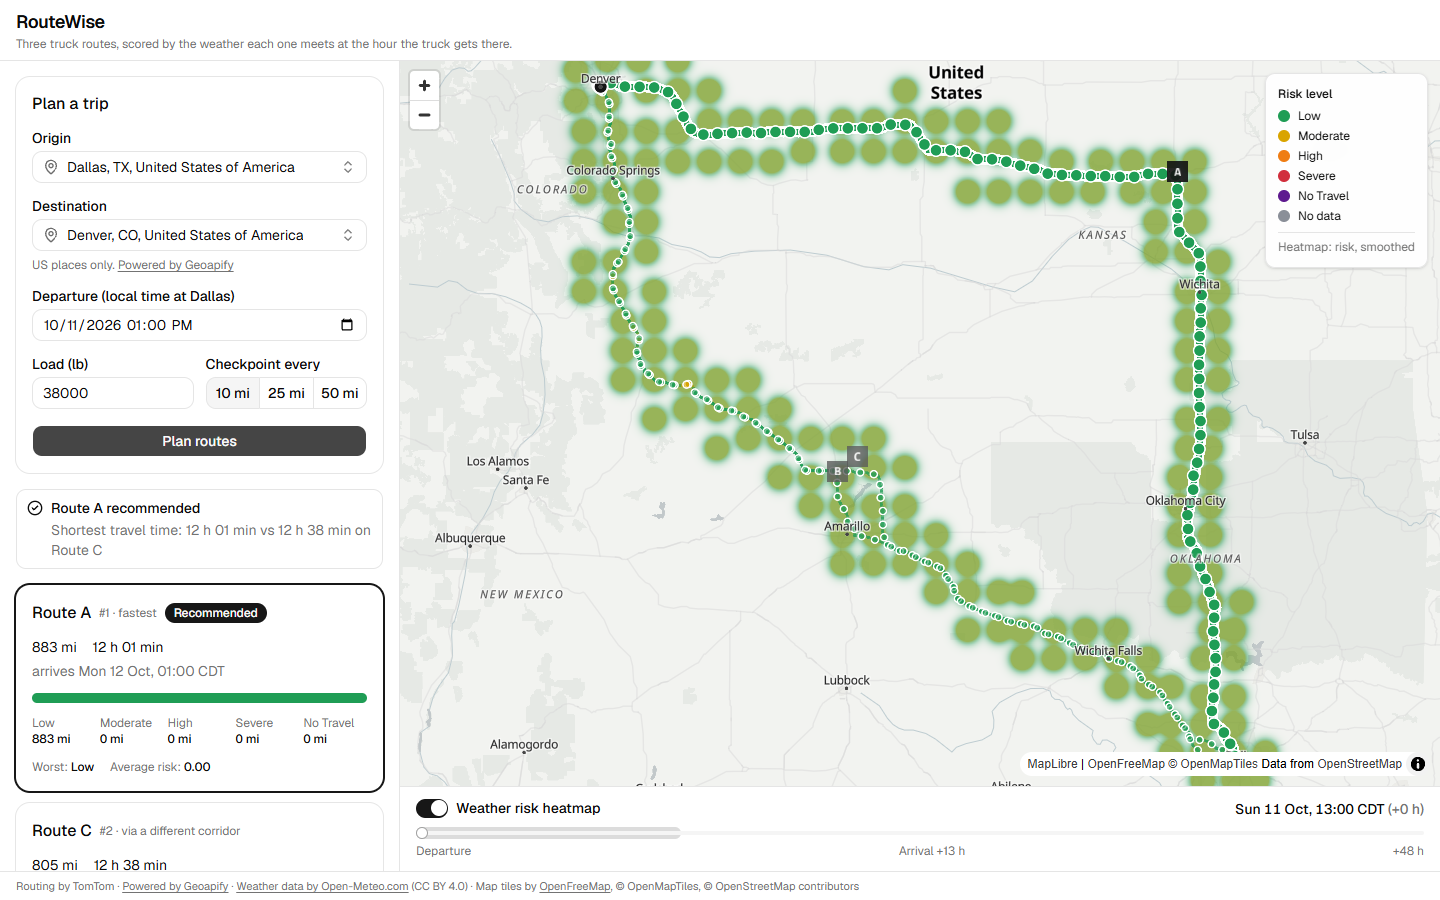
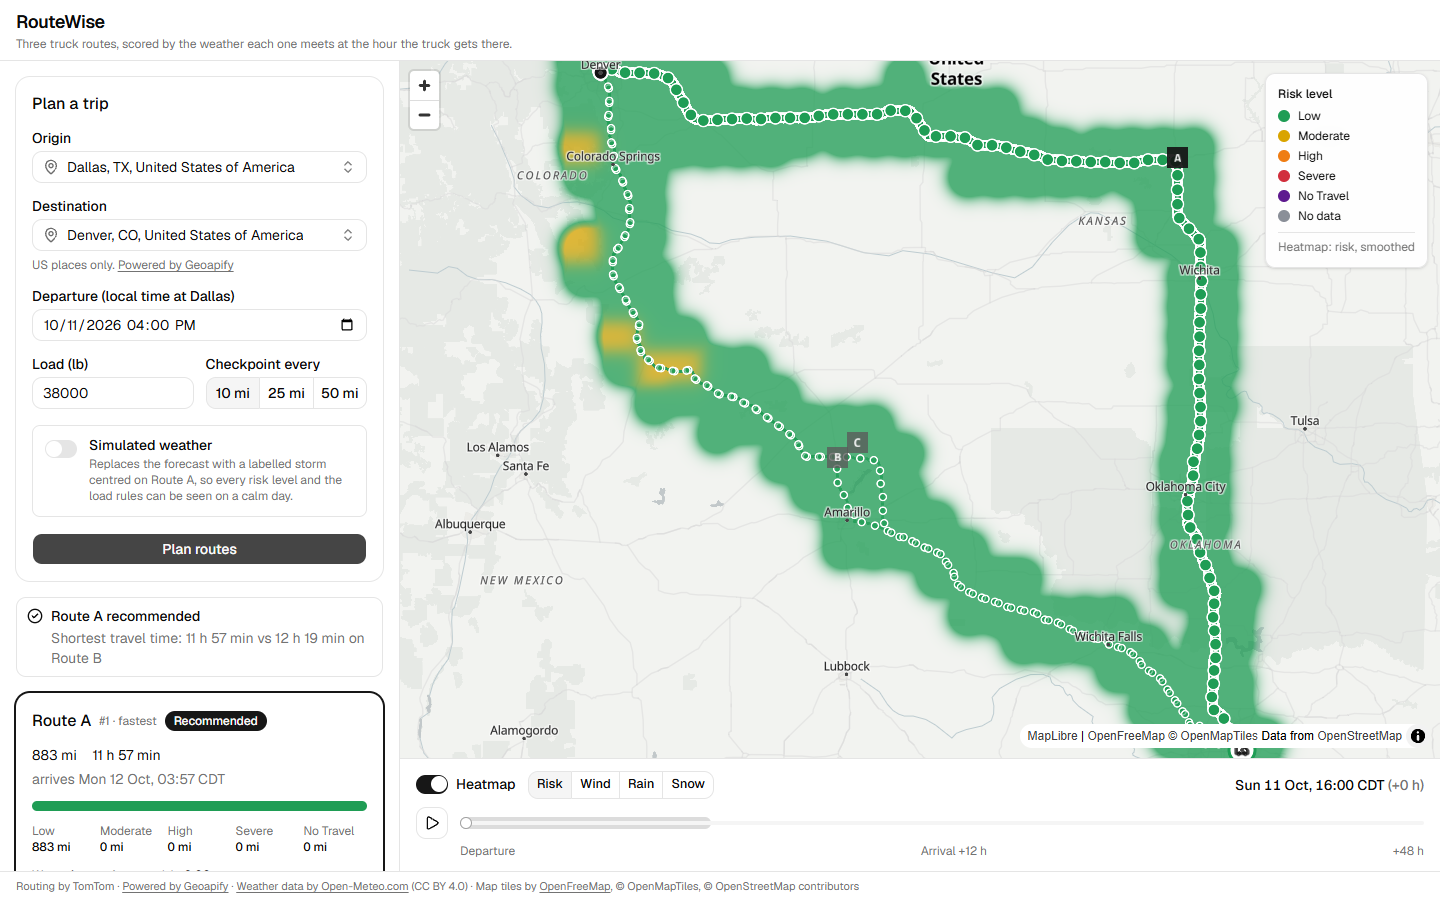
docs: README for the P1 features, new screenshots, worked example from the storm
- Both screenshots retaken with the fixed heatmap (smooth field, true
  level colours); the storm one is at the hour the storm meets Route A.
- The worked example now comes from the simulated storm plan, so rule 0
  is visible: the fastest route carries 25 No Travel miles and drops to
  last, then travel time separates the two clear routes.
- A short "Around the map" section for the checkpoint table, playback
  with trucks, the heatmap switch and the phone layout; test counts.
- Known limitation: Open-Meteo's per-IP free quota on Render's shared
  outbound addresses ran out on 11 October.

diff --git a/README.md b/README.md
@@ -4,7 +4,7 @@
 
 Weather-aware truck routing. RouteWise plans three truck routes between two US places, forecasts the weather at the hour the truck reaches each checkpoint, scores it with Spotter's risk and load rules, and recommends the safest route, with travel time as the tie-breaker. The map shows the routes, every checkpoint's risk and ETA, and a 48-hour risk heatmap of the corridor.
 
-![Dallas to Denver: three routes, checkpoint risk and the corridor heatmap](docs/images/dallas-denver.png)
+![Dallas to Denver at 38,000 lb: three routes, checkpoint risk and the corridor heatmap](docs/images/dallas-denver.png)
 
 ## Live demo
 
@@ -24,7 +24,7 @@ The API runs on a free Render instance kept awake by a monitor. If it has dozed 
 4. **Weather.** Open-Meteo hourly forecasts, fetched once per 0.1° cell and cached for an hour. Sustained wind is interpolated to the ETA; rain, showers, snow and gusts come from the hour the truck is in (an ETA of 14:20 reads the 15:00 slot, which covers 14:00 to 15:00).
 5. **Risk.** The brief's thresholds and load rules give each checkpoint a level and a plain-language reason.
 6. **Ranking.** Miles at each level, average risk and travel time rank the routes; the UI names the rule that decided it.
-7. **Heatmap.** A grid of at most 200 points within 25 miles of any route, classified with the same rules and load for the departure hour and the 48 hours after it. The slider changes an index into frames already in memory, so scrubbing makes no requests.
+7. **Heatmap.** A grid of at most 200 points within 25 miles of any route, classified with the same rules and load for the departure hour and the 48 hours after it. The slider changes an index into frames already in memory, so scrubbing makes no requests. A switch shows sustained wind, rain or snow instead of risk.
 
 ## Risk rules
 
@@ -58,15 +58,15 @@ Routes are compared on each rule in turn, moving to the next only on a tie:
 
 Miles are rounded to whole miles and average risk to one decimal before comparing, which keeps the order consistent across three routes. No Travel miles round up, so a short No Travel stretch can't pass as safe. Routes with missing weather rank after complete ones; a full tie keeps TomTom's order.
 
-**Worked example** (Dallas → Denver, 38,000 lb, the screenshot above):
+**Worked example** (Dallas → Denver, 35,000 lb, 25-mile checkpoints, with the [simulated storm](#simulated-weather) below):
 
 | Route | Miles | Time | No Travel | Severe | High | Average risk |
 |---|---|---|---|---|---|---|
-| A (fastest) | 883 | 11 h 51 min | 0 | 0 | 0 | 0.00 |
-| B (eco) | 795 | 12 h 27 min | 0 | 0 | 0 | 0.03 → 0.0 |
-| C (via) | 863 | 13 h 05 min | 0 | 0 | 0 | 0.00 |
+| A (fastest) | 883 | 11 h 57 min | 25 | 0 | 50 | 0.28 → 0.3 |
+| B (eco) | 793 | 12 h 19 min | 0 | 0 | 0 | 0.0 |
+| C (via) | 804 | 12 h 29 min | 0 | 0 | 0 | 0.0 |
 
-Rules 0 to 2 tie at zero. Rule 3 ties too, because 0.03 rounds to 0.0. Rule 4 decides: "Route A recommended. Shortest travel time: 11 h 51 min vs 12 h 27 min on Route B."
+Route A is the fastest, but the storm meets it at mile 450, where 50.1 mph of wind with a 35,000 lb load is No Travel (load rule 2). Rule 0 puts it last. B and C tie on rules 0 to 3, so rule 4 decides: "Route B recommended. Shortest travel time: 12 h 19 min vs 12 h 29 min on Route C." With the real forecast at the same departure every route was Low, and travel time chose Route A, as in the screenshot at the top.
 
 If every route has No Travel conditions, the ranking is still shown but the recommendation is replaced by "No safe route at this departure time", pointing at the heatmap to find a clearer window.
 
@@ -79,9 +79,16 @@ A calm review day leaves every route Low, so the form has a **Simulated weather*
 - **What it shows:** nothing reaches No Travel on weather alone, so the load rules do the visible work. At 25,000 lb the core checkpoint is Severe, at 35,000 lb it turns No Travel (rule 2), and at 45,000 lb the High ring turns Severe (rule 3). On Dallas → Denver the storm-hit route drops to last and another route is recommended.
 - **Labelled everywhere:** a banner, every route card, every checkpoint tooltip, the legend and a badge on the map, where a ring shows the storm moving as the slider scrubs.
 
-![Simulated weather at 35,000 lb: the storm ring over Kansas, the core of Route A at No Travel, Route B recommended](docs/images/simulated-storm.png)
+![Simulated weather at 35,000 lb, at the hour the storm meets Route A: its truck in the No Travel core over Kansas, Route B recommended](docs/images/simulated-storm.png)
 
 The plan response carries the storm in `trip.storm`, and the heatmap request sends its centre and time back, so the API stays stateless. Rule 1 (55 mph and above), rain and snow No Travel, and every snow level are covered by the tests instead.
+
+## Around the map
+
+- **Checkpoint table.** Under the selected route's card: every checkpoint's mile, ETA, wind, rain, snow and level, with the load rule that fired and the full reason on hover.
+- **Play the forecast.** A play button steps the slider an hour at a time, and a truck on each route shows where it would be at that hour, ringed in the level of the stretch it is on.
+- **Heatmap switch.** Risk, sustained wind, rain or snow. The weather views use one blue scale that darkens up to the reading the rules make No Travel, with the Moderate, High and Severe thresholds marked on the legend.
+- **Phone layout.** Below 768 px the map fills the screen and the form and results move into a bottom sheet, which lowers itself when a plan arrives and names the recommended route on its handle.
 
 ## Assumptions
 
@@ -131,8 +138,8 @@ Environment variables are listed in [`backend/.env.example`](backend/.env.exampl
 ## Tests and CI
 
 ```bash
-cd backend && uv run pytest        # 140 tests, every provider mocked with recorded responses
-cd frontend && npm test            # 27 tests: risk palette, time formatting, geometry, route cards, tooltips, storm drift
+cd backend && uv run pytest        # 144 tests, every provider mocked with recorded responses
+cd frontend && npm test            # 63 tests: palette and heatmap scales, formatting, geometry, trucks, playback, cards, table, legend, tooltips
 ```
 
 [GitHub Actions](.github/workflows/ci.yml) runs Ruff, pytest with coverage, oxlint, Prettier, Vitest and the production build on every push, and checks that `requirements.txt` matches the lockfile and that the frontend's API types match the backend's schema.
@@ -165,6 +172,7 @@ What keeps it fast: the five routing calls run at once (TomTom's own alternative
 - ETAs ignore rest breaks, fuel stops and live incidents.
 - The free API instance has 0.1 CPU and sleeps after 15 idle minutes without the keep-alive monitor.
 - Open-Meteo's free API is for non-commercial use; a production deployment would need a subscription.
+- Open-Meteo's free limits (600 calls a minute, 10,000 a day) count every location as a call, and a cold Dallas → Denver plan with its heatmap is about 450. A free Render instance shares its outbound addresses with other services, so their traffic can use up the forecast quota first: this happened on 11 October. The app then says which limit was hit and points at simulated weather, which needs no forecast.
 
 ## Documents
 
